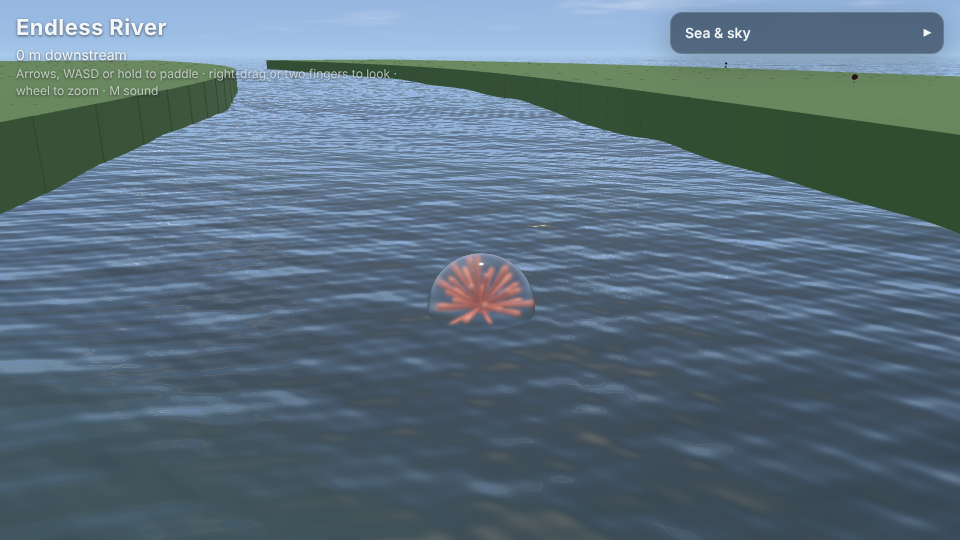
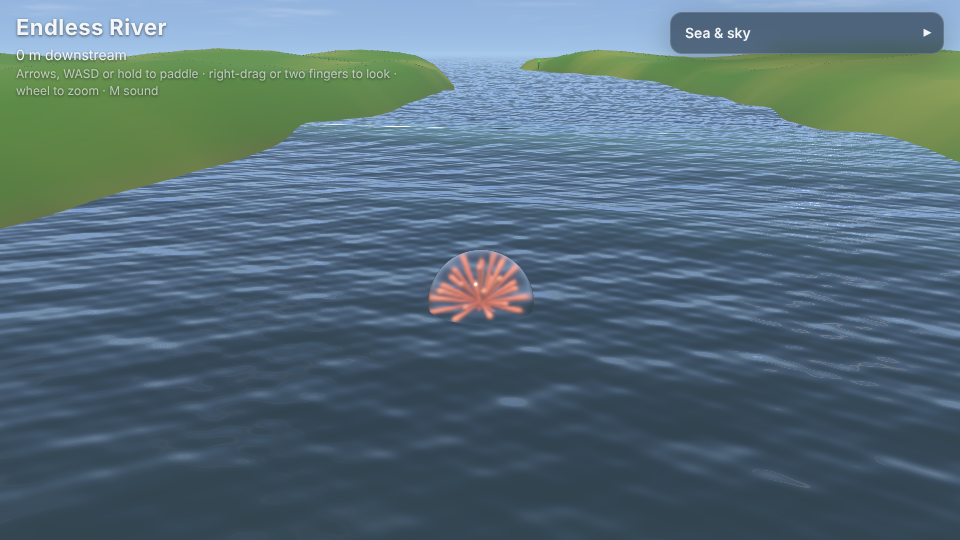
Banks as sloped grassy terrain, water flowing downstream, camera facing down the river
Claude-Session: https://claude.ai/code/session_01EikGxxf5h6c4Pk7SFP71HH

diff --git a/src/main.js b/src/main.js
@@ -25,6 +25,7 @@ import { createSound } from './sound.js';
 
 const RADIUS = 1.1;
 const STEP = 1 / 120;
+let flowAngle = 0;
 const params = new URLSearchParams(location.search);
 
 // The time of day, as skies at hours between which the sky is mixed.
@@ -78,7 +79,8 @@ function seaOf(s) {
   return {
     ...base,
     height: s.height, longest: s.longest, choppy: s.choppy, spread: s.spread, foam: s.foam,
-    wind: (s.wind * Math.PI) / 180,
+    // The water runs down the river, wherever the bend at the float points it.
+    wind: flowAngle,
     swell: base.swell ? [base.swell[0], s.height * ratio] : null,
   };
 }
@@ -119,12 +121,8 @@ const ocean = createOcean(GFX, { sea: seaOf(state), sky: skyOf(state), roomEvery
 scene.add(ocean.group);
 ocean.dress(stage);
 
-// Face the sun to begin with: the light on the water is the best of it.
-{
-  const [, az] = skyOf(state).sun.at;
-  const a = (az * Math.PI) / 180;
-  view.yaw = view.aim.yaw = Math.atan2(-Math.cos(a), -Math.sin(a));
-}
+// Face downstream to begin with.
+view.yaw = view.aim.yaw = -Math.PI / 2;
 
 // The float: the engine's glass marble, the size of a fishing float.
 const ball = createFloat(RADIUS);
@@ -136,29 +134,63 @@ ball.y = ocean.sea.sample(0, 0).height;
 const buoys = createBuoys(GFX, scene);
 
 // The river: a current downstream (+x) between two grassy banks, winding as far as `snake` says.
-const BEND = 60, SEG = 6, SEGS = 70;
+const BEND = 60, SEG = 3;
 const middle = (x) => state.snake * 30 * Math.sin(x / BEND);
 const slope = (x) => (state.snake * 30 / BEND) * Math.cos(x / BEND);
-const bankMaterial = new GFX.MeshStandardMaterial({ name: 'bank', color: new GFX.Color('#4a6b32'), roughness: 1 });
-const bankBox = new GFX.BoxGeometry(SEG * 1.3, 4, 40);
-const banks = [];
-for (let i = 0; i < SEGS * 2; i++) {
-  const bank = new GFX.Mesh(bankBox, bankMaterial);
-  scene.add(bank);
-  banks.push(bank);
-}
-function placeBanks(x0) {
-  const start = Math.round(x0 / SEG) * SEG - (SEGS / 2) * SEG;
-  for (let i = 0; i < SEGS; i++) {
-    const x = start + i * SEG, a = Math.atan(slope(x));
-    for (const side of [-1, 1]) {
-      const off = (state.width / 2 + 20) / Math.cos(a);
-      const bank = banks[i * 2 + (side + 1) / 2];
-      bank.position.set(x, 0.6, middle(x) + side * off);
-      bank.rotation.y = -a;
+// Each bank one strip of ground: a muddy slope out of the water, then rolling grass.
+const ALONG = 140, ACROSS = 14, REACH = 50;
+const bankMaterial = new GFX.MeshStandardMaterial({ name: 'bank', vertexColors: true, roughness: 1, side: GFX.DoubleSide });
+const MUD = new GFX.Color('#5b4a33'), GRASS = new GFX.Color('#4d7a2e'), DRY = new GFX.Color('#7f8a3c');
+const lump = (x, z) => Math.sin(x * 0.11 + z * 0.07) * 0.6 + Math.sin(x * 0.031 - z * 0.13) * 0.9 + Math.sin(x * 0.53 + z * 0.41) * 0.12;
+const banks = [-1, 1].map((side) => {
+  const geometry = new GFX.BufferGeometry();
+  const n = (ALONG + 1) * (ACROSS + 1);
+  geometry.setAttribute('position', new GFX.BufferAttribute(new Float32Array(n * 3), 3));
+  geometry.setAttribute('color', new GFX.BufferAttribute(new Float32Array(n * 3), 3));
+  const index = [];
+  for (let i = 0; i < ALONG; i++) {
+    for (let j = 0; j < ACROSS; j++) {
+      const a = i * (ACROSS + 1) + j, b = a + ACROSS + 1;
+      if (side > 0) index.push(a, b, a + 1, b, b + 1, a + 1);
+      else index.push(a, a + 1, b, b, a + 1, b + 1);
     }
   }
+  geometry.setIndex(index);
+  const mesh = new GFX.Mesh(geometry, bankMaterial);
+  mesh.frustumCulled = false;
+  scene.add(mesh);
+  return { side, geometry, mesh };
+});
+const tint = new GFX.Color();
+let banksAt = null;
+function placeBanks(x0) {
+  const start = Math.round(x0 / SEG) * SEG - (ALONG / 2) * SEG;
+  const key = `${start}|${state.width}|${state.snake}`;
+  if (key === banksAt) return;
+  banksAt = key;
+  for (const { side, geometry } of banks) {
+    const pos = geometry.attributes.position.array, col = geometry.attributes.color.array;
+    for (let i = 0; i <= ALONG; i++) {
+      const x = start + i * SEG, a = Math.atan(slope(x));
+      const nx = -Math.sin(a) * side, nz = Math.cos(a) * side;
+      for (let j = 0; j <= ACROSS; j++) {
+        // Close rows by the water, wider ones further out.
+        const d = REACH * (j / ACROSS) ** 2 - 1.5;
+        const px = x + nx * (state.width / 2 + d), pz = middle(x) + nz * (state.width / 2 + d);
+        const rise = Math.min(1, Math.max(0, d / 7));
+        const y = -1.2 + 5 * rise * rise * (3 - 2 * rise) + lump(px, pz) * Math.min(1, Math.max(0, d / 10));
+        const k = (i * (ACROSS + 1) + j) * 3;
+        pos[k] = px; pos[k + 1] = y; pos[k + 2] = pz;
+        tint.copy(MUD).lerp(GRASS, Math.min(1, Math.max(0, (d - 0.5) / 2.5))).lerp(DRY, Math.max(0, Math.min(1, lump(px * 1.7, pz * 1.7) * 0.4 + 0.2)));
+        col[k] = tint.r; col[k + 1] = tint.g; col[k + 2] = tint.b;
+      }
+    }
+    geometry.attributes.position.needsUpdate = true;
+    geometry.attributes.color.needsUpdate = true;
+    geometry.computeVertexNormals();
+  }
 }
+
 const effects = createEffects(GFX, scene, { ground: ocean.sea });
 const drop = new GFX.SphereGeometry(0.09, 6, 4);
 const dropMaterial = new GFX.MeshBasicMaterial({ name: 'spray', color: new GFX.Color('#e8f4f6'), transparent: true, opacity: 0.85 });
@@ -188,7 +220,6 @@ const panel = createPanel(document.getElementById('panel'), [
       { key: 'longest', label: 'Wavelength', min: 20, max: 240, step: 1, value: state.longest, show: (v) => `${v.toFixed(0)} m` },
       { key: 'choppy', label: 'Choppiness', min: 0, max: 0.95, step: 0.01, value: state.choppy },
       { key: 'spread', label: 'Crests (long ↔ confused)', min: 0.05, max: 1.4, step: 0.01, value: state.spread },
-      { key: 'wind', label: 'Wind from', min: 0, max: 359, step: 1, value: state.wind, show: (v) => `${v.toFixed(0)}°` },
       { key: 'foam', label: 'Whitecaps', min: 0, max: 1, step: 0.01, value: state.foam },
     ],
   },
@@ -276,6 +307,10 @@ stage.renderer.setAnimationLoop((now) => {
   const push = toGround(input.stick(), view.yaw);
   {
     const a = Math.atan(slope(ball.x));
+    if (Math.abs(a - flowAngle) > 0.05) {
+      flowAngle = a;
+      ocean.setSea(seaOf(state), 1);
+    }
     push[0] += state.current * Math.cos(a);
     push[1] += state.current * Math.sin(a);
   }
